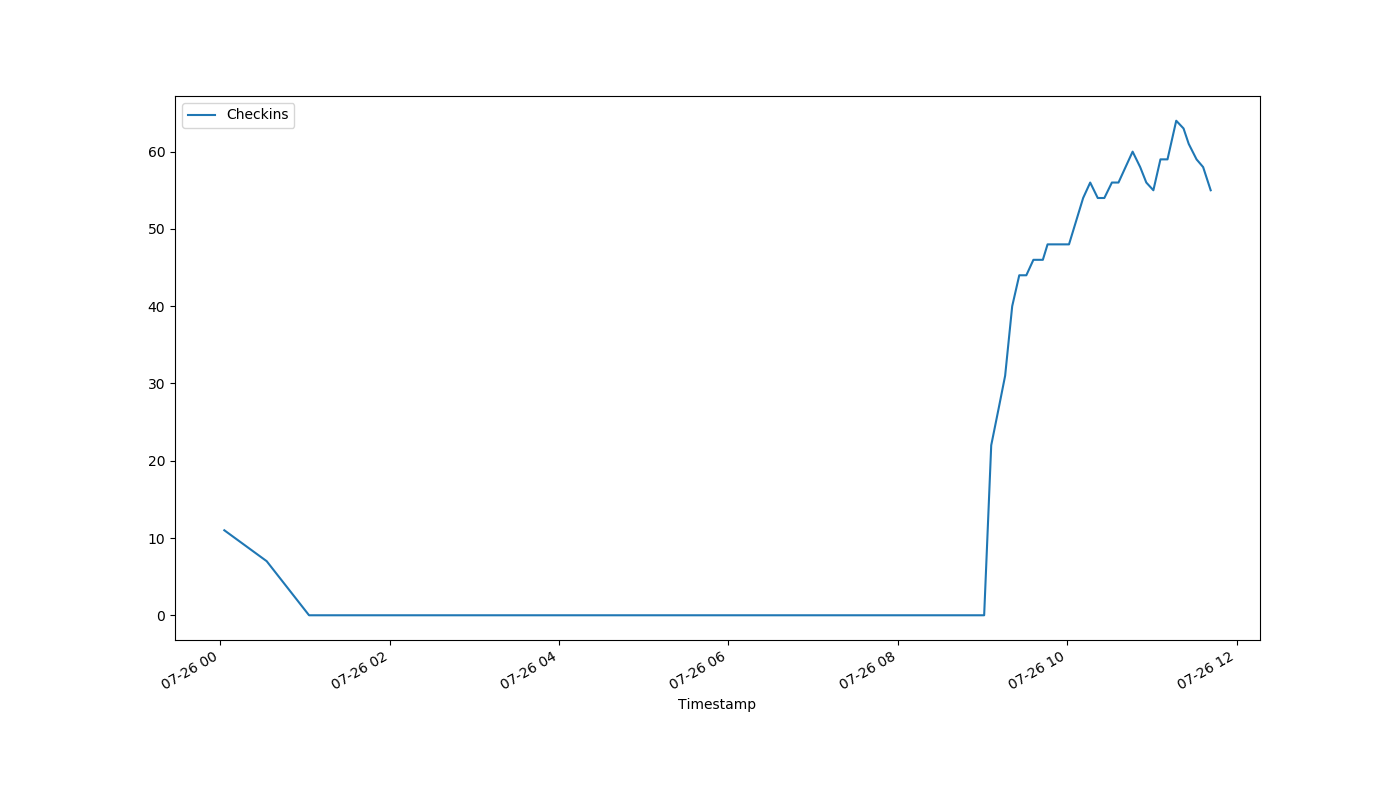
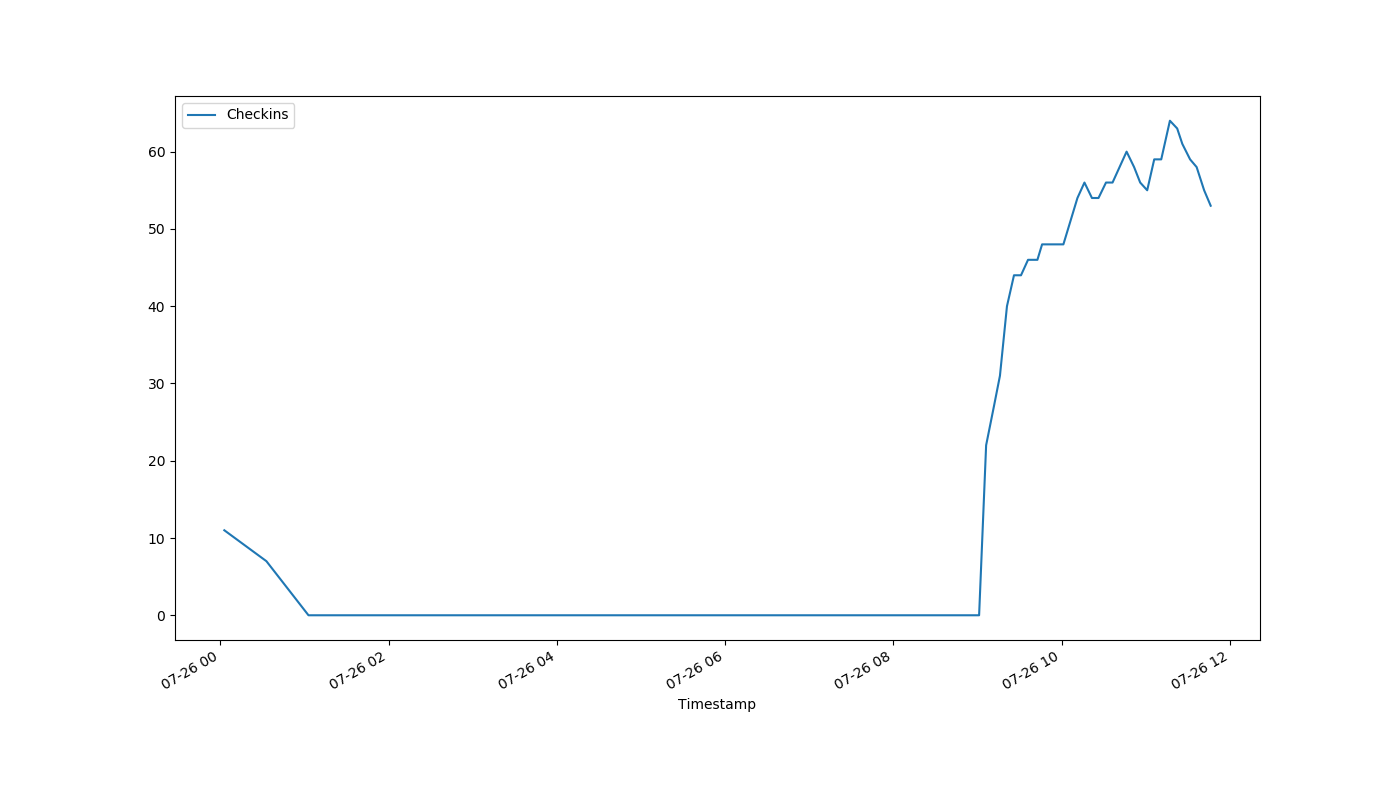
auto-Jul-26-11:47:12

diff --git a/index.html b/index.html
@@ -1,1 +1,1 @@
-<!DOCTYPE html><html><head><meta http-equiv="refresh" content="30"><link rel='stylesheet' href='holmcurrent.css'></head><body><p id='count'>55</p><div id='graph-wrap'><img id='graph' src='holmgraph-Jul-26.png'></div><p id='updated'>Last updated 11:42:00 / 11:41:37</p></body></html>
+<!DOCTYPE html><html><head><meta http-equiv="refresh" content="30"><link rel='stylesheet' href='holmcurrent.css'></head><body><p id='count'>53</p><div id='graph-wrap'><img id='graph' src='holmgraph-Jul-26.png'></div><p id='updated'>Last updated 11:47:00 / 11:46:17</p></body></html>
